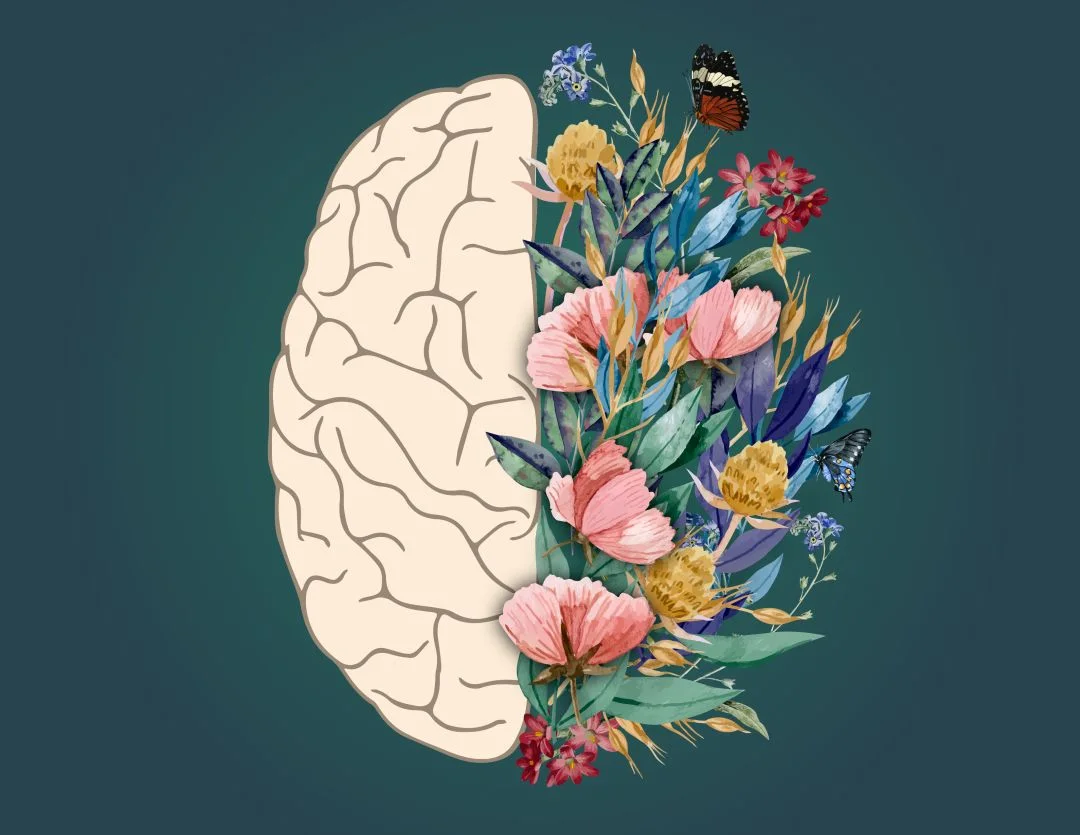
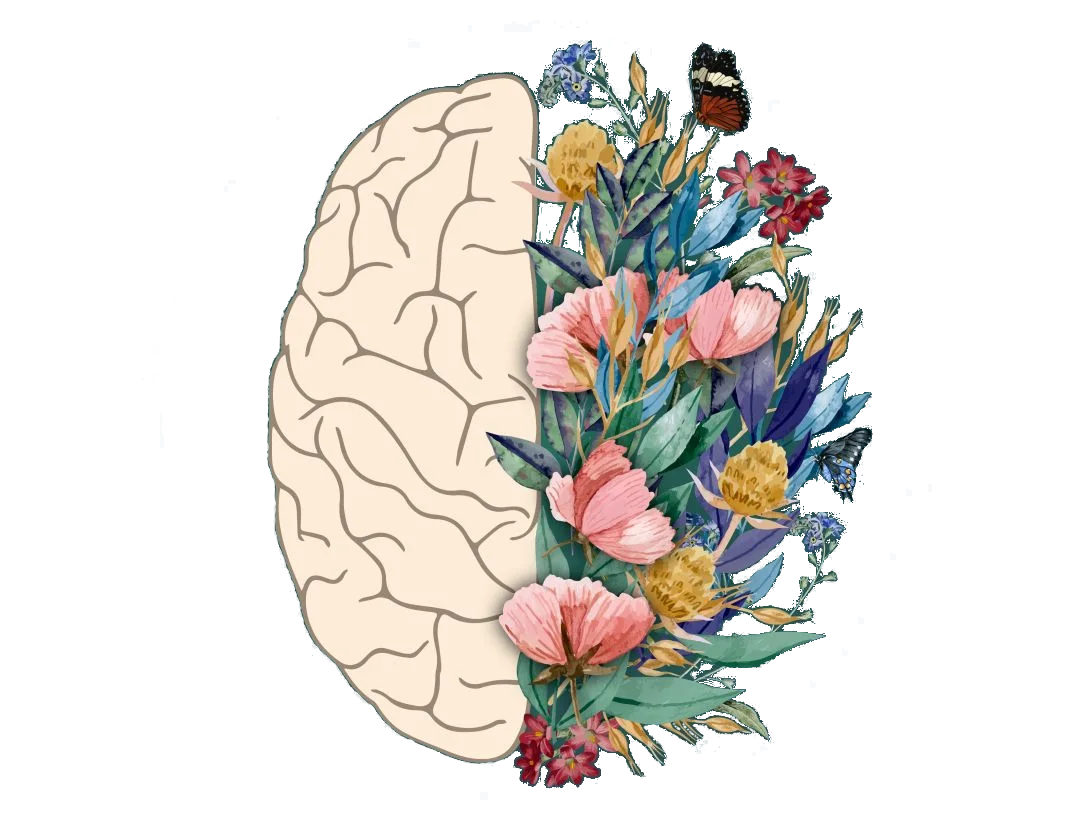
pequenas alterações visuais; correção leitor das linhas do documento; imagem final cerebro_flor.png

diff --git a/src/main/webapp/resources/css/style.css b/src/main/webapp/resources/css/style.css
@@ -333,6 +333,21 @@ main {
     align-items: center !important;
     display: flex !important;
 }
+
+.perguntas-radio > table > tbody > tr > td{
+    display: flex;
+    align-items: center;
+}
+
+.perguntas-radio > table > tbody > tr > td > label{
+    margin: 0 20px;
+}
+
+.text-subjetiva {
+    width: 500px;
+    height: 100px;
+    border-radius: 5px;
+}
 /* Componentes personalizados */
 #img_logo {
     width: 120px;

diff --git a/src/main/java/com/github/lipenathan/chillout/negocio/fabrica/FabricaUsuario.java b/src/main/java/com/github/lipenathan/chillout/negocio/fabrica/FabricaUsuario.java
@@ -5,7 +5,6 @@ import com.github.lipenathan.chillout.negocio.dominio.Funcionario;
 import com.github.lipenathan.chillout.negocio.dominio.Usuario;
 
 import java.io.BufferedReader;
-import java.io.IOException;
 import java.text.SimpleDateFormat;
 import java.util.ArrayList;
 import java.util.List;
@@ -17,7 +16,7 @@ public class FabricaUsuario {
 
     public static List<Funcionario> fabricarFuncionarios(BufferedReader reader) throws Exception {
         List<Funcionario> lista = new ArrayList<>();
-        while (reader.readLine() != null) {
+        while (reader.ready()) {
             lista.add(fabricarFuncionario(reader.readLine()));
         }
         return lista;

diff --git a/src/main/java/com/github/lipenathan/chillout/controlador/GestorController.java b/src/main/java/com/github/lipenathan/chillout/controlador/GestorController.java
@@ -49,6 +49,7 @@ public class GestorController implements Serializable {
                 relacionarFuncionariosEmpresa(funcionarios);
                 processosGestor.cadastrarFuncionarios(funcionarios);
             } catch (Exception e) {
+                e.printStackTrace();
                 context.addMessage(null, new FacesMessage("Erro ao salvar funcionários"));
             }
         }
